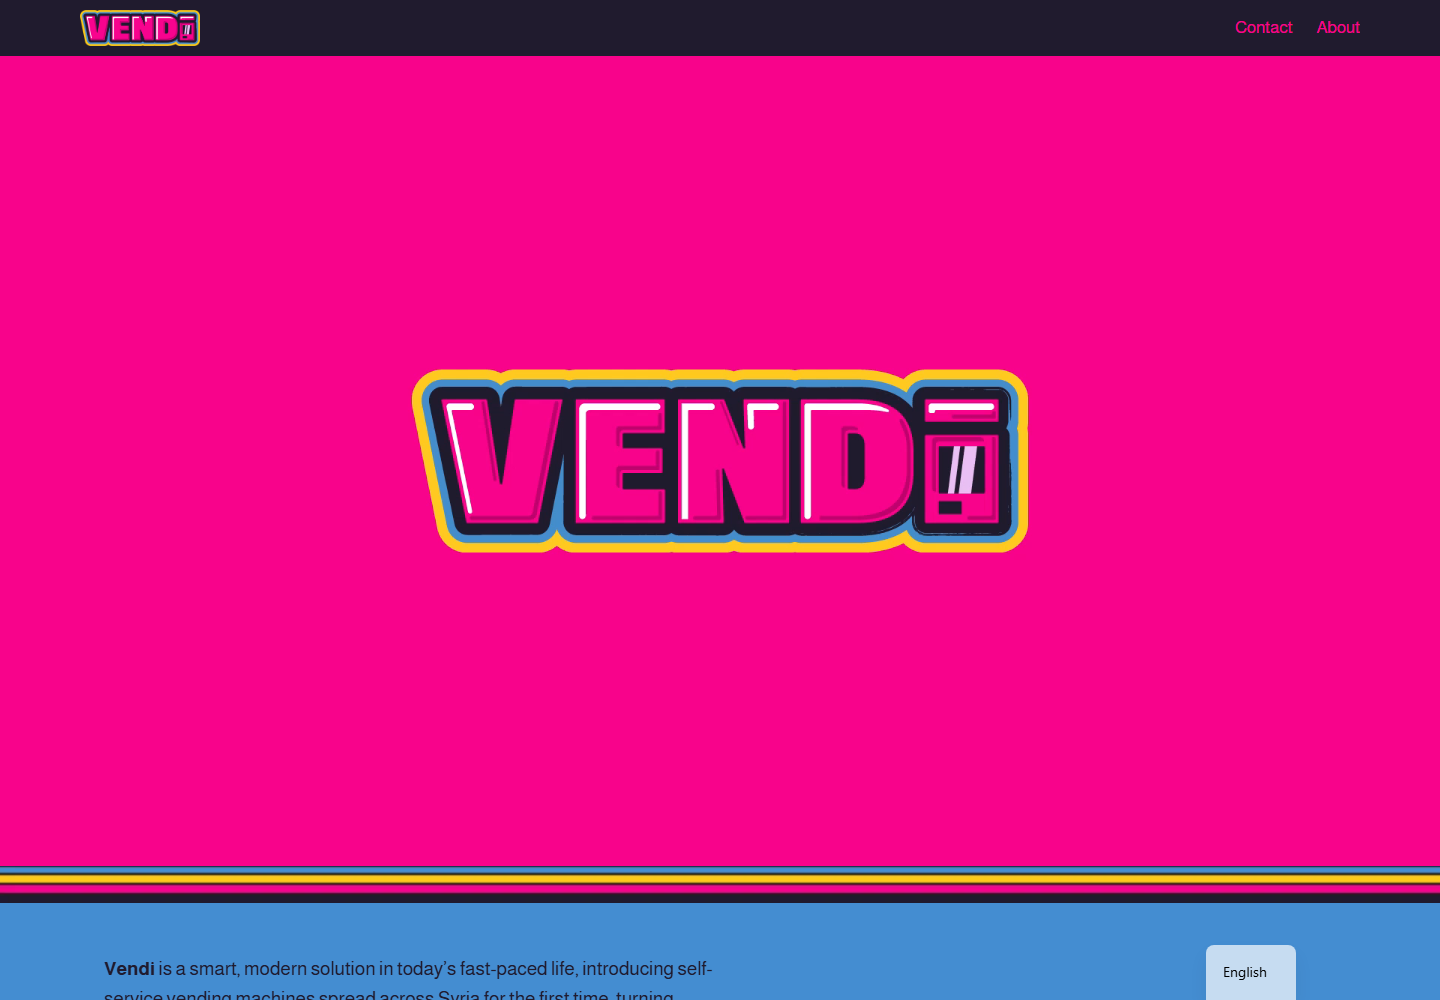
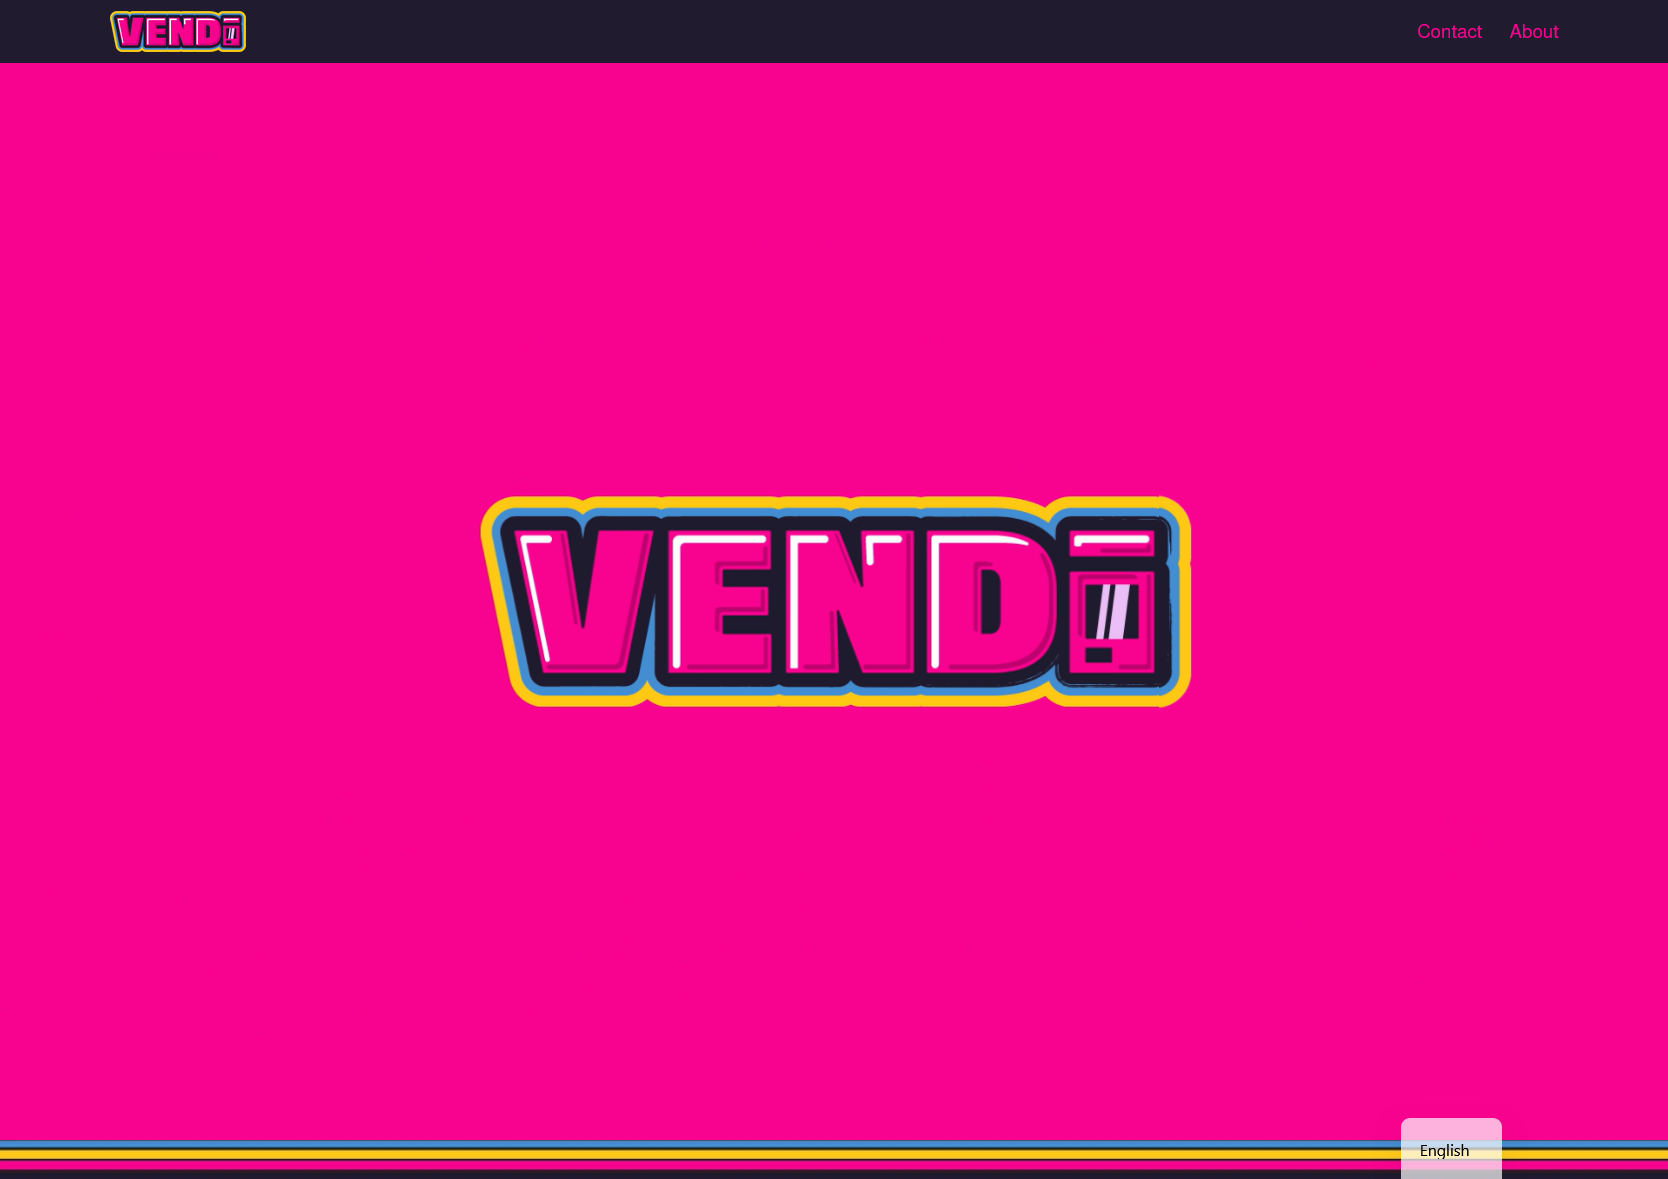
edit the screenshots, added scroll up, added gitignore

diff --git a/styles.css b/styles.css
@@ -570,7 +570,7 @@ a.experience-logo:focus-visible {
   max-width: 18ch;
   margin-top: 1rem;
   font-family: Space Grotesk, Inter, ui-sans-serif, system-ui, sans-serif;
-  font-size: clamp(2.7rem, 10vw, 8rem);
+  font-size: clamp(2.5rem, 9vw, 7rem);
   font-weight: 700;
   line-height: 0.88;
 }
@@ -579,7 +579,7 @@ a.experience-logo:focus-visible {
   max-width: 15ch;
   margin-top: 1rem;
   font-family: Space Grotesk, Inter, ui-sans-serif, system-ui, sans-serif;
-  font-size: clamp(2.3rem, 6vw, 8rem);
+  font-size: clamp(2.1rem, 5.5vw, 6.5rem);
   font-weight: 900;
   line-height: 0.92;
 }
@@ -837,6 +837,54 @@ a.experience-logo:focus-visible {
   transform: translateY(0);
 }
 
+.back-to-top {
+  position: fixed;
+  right: clamp(1rem, 4vw, 3rem);
+  bottom: clamp(1rem, 4vw, 3rem);
+  z-index: 90;
+  display: flex;
+  align-items: center;
+  justify-content: center;
+  width: 3.25rem;
+  height: 3.25rem;
+  border: 1px solid var(--line);
+  background: rgba(16, 17, 19, 0.76);
+  backdrop-filter: blur(18px);
+  color: var(--muted);
+  cursor: pointer;
+  opacity: 0;
+  visibility: hidden;
+  transform: translateY(20px);
+  transition: opacity 300ms ease, transform 300ms ease, visibility 300ms, border-color 180ms ease, background 180ms ease, color 180ms ease;
+  pointer-events: auto;
+}
+
+.back-to-top.is-visible {
+  opacity: 1;
+  visibility: visible;
+  transform: translateY(0);
+}
+
+.back-to-top:hover {
+  border-color: var(--green);
+  background: var(--green);
+  color: var(--ink);
+}
+
+.back-to-top i {
+  font-size: 1.1rem;
+  transition: transform 180ms ease;
+}
+
+.back-to-top:hover i {
+  transform: translateY(-2px);
+}
+
+.back-to-top:focus-visible {
+  outline: 2px solid var(--green);
+  outline-offset: 3px;
+}
+
 @media (min-width: 860px) {
 
   .brand-mark,
@@ -900,7 +948,7 @@ a.experience-logo:focus-visible {
   }
 
   .project-slide .section-title {
-    font-size: clamp(2rem, 11vw, 4rem);
+    font-size: clamp(1.85rem, 10vw, 3.5rem);
   }
 
   .project-slide .actions {
@@ -996,7 +1044,7 @@ a.experience-logo:focus-visible {
   }
 
   .project-slide .section-title {
-    font-size: clamp(1.9rem, 12vw, 3rem);
+    font-size: clamp(1.75rem, 10vw, 2.75rem);
   }
 
   .project-slide .body-copy {
@@ -1018,13 +1066,13 @@ a.experience-logo:focus-visible {
 
   .display-title {
     margin-top: 0.65rem;
-    font-size: clamp(2.85rem, 18vw, 4.8rem);
+    font-size: clamp(2.5rem, 16vw, 4.2rem);
     line-height: 0.9;
   }
 
   .section-title {
     margin-top: 0.6rem;
-    font-size: clamp(2.05rem, 13vw, 3.65rem);
+    font-size: clamp(1.9rem, 11vw, 3.25rem);
     line-height: 0.96;
   }
 
@@ -1151,11 +1199,11 @@ a.experience-logo:focus-visible {
   }
 
   .display-title {
-    font-size: clamp(2.55rem, 17vw, 3.8rem);
+    font-size: clamp(2.25rem, 15vw, 3.4rem);
   }
 
   .section-title {
-    font-size: clamp(1.85rem, 12vw, 3rem);
+    font-size: clamp(1.65rem, 10vw, 2.6rem);
   }
 }
 

diff --git a/main.js b/main.js
@@ -3,6 +3,15 @@ const tracks = Array.from(document.querySelectorAll("[data-track]"));
 const tabList = document.querySelector(".tab-list");
 const siteHeader = document.querySelector(".site-header");
 const progressFill = document.querySelector("[data-progress-fill]");
+const backToTopBtn = document.getElementById("backToTop");
+
+function updateBackToTopState() {
+  const activeTrack = getActiveTrack();
+  if (activeTrack && backToTopBtn) {
+    const shouldShow = activeTrack.scrollTop > 300;
+    backToTopBtn.classList.toggle("is-visible", shouldShow);
+  }
+}
 
 let activeTrackName = "resume";
 let touchStartScrollTop = 0;
@@ -109,6 +118,7 @@ function setActiveTrack(trackName) {
   requestAnimationFrame(() => {
     updateProgress();
     updateHeaderState();
+    updateBackToTopState();
   });
 }
 
@@ -153,6 +163,7 @@ tracks.forEach((track) => {
       window.requestAnimationFrame(() => {
         updateProgress();
         updateHeaderState();
+        updateBackToTopState();
       });
     }
   });
@@ -258,3 +269,7 @@ document.querySelectorAll(".skill-pillar").forEach((pillar) => {
 
 syncTabs();
 setActiveTrack(activeTrackName);
+
+backToTopBtn?.addEventListener("click", () => {
+  getActiveTrack()?.scrollTo({ top: 0, behavior: "smooth" });
+});

diff --git a/index.html b/index.html
@@ -413,7 +413,7 @@
                 </div>
                 <div class="meta-item">
                   <span>Result</span>
-                  <strong>Luxury brand presence</strong>
+                  <strong>Luxury brand, fitting website</strong>
                 </div>
               </div>
               <div class="actions">
@@ -440,7 +440,7 @@
               <div class="project-meta">
                 <div class="meta-item">
                   <span>Tech</span>
-                  <strong>Responsive Web, Content Structure, SEO</strong>
+                  <strong>WordPress, SEO, Responsive Design</strong>
                 </div>
                 <div class="meta-item">
                   <span>Result</span>
@@ -471,11 +471,11 @@
               <div class="project-meta">
                 <div class="meta-item">
                   <span>Tech</span>
-                  <strong>Responsive Web, Booking Flow, Content Updates</strong>
+                  <strong>Wix, Responsive Web, Booking Flow, Content Updates</strong>
                 </div>
                 <div class="meta-item">
                   <span>Result</span>
-                  <strong>Restaurant booking presence</strong>
+                  <strong>Restaurant booking and strong online presence</strong>
                 </div>
               </div>
               <div class="actions">
@@ -637,6 +637,11 @@
       -->
     </main>
   </div>
+
+  <button class="back-to-top" id="backToTop" type="button" aria-label="Go back to top">
+    <i class="fa-solid fa-arrow-up" aria-hidden="true"></i>
+  </button>
+
   <script src="main.js"></script>
 </body>
 